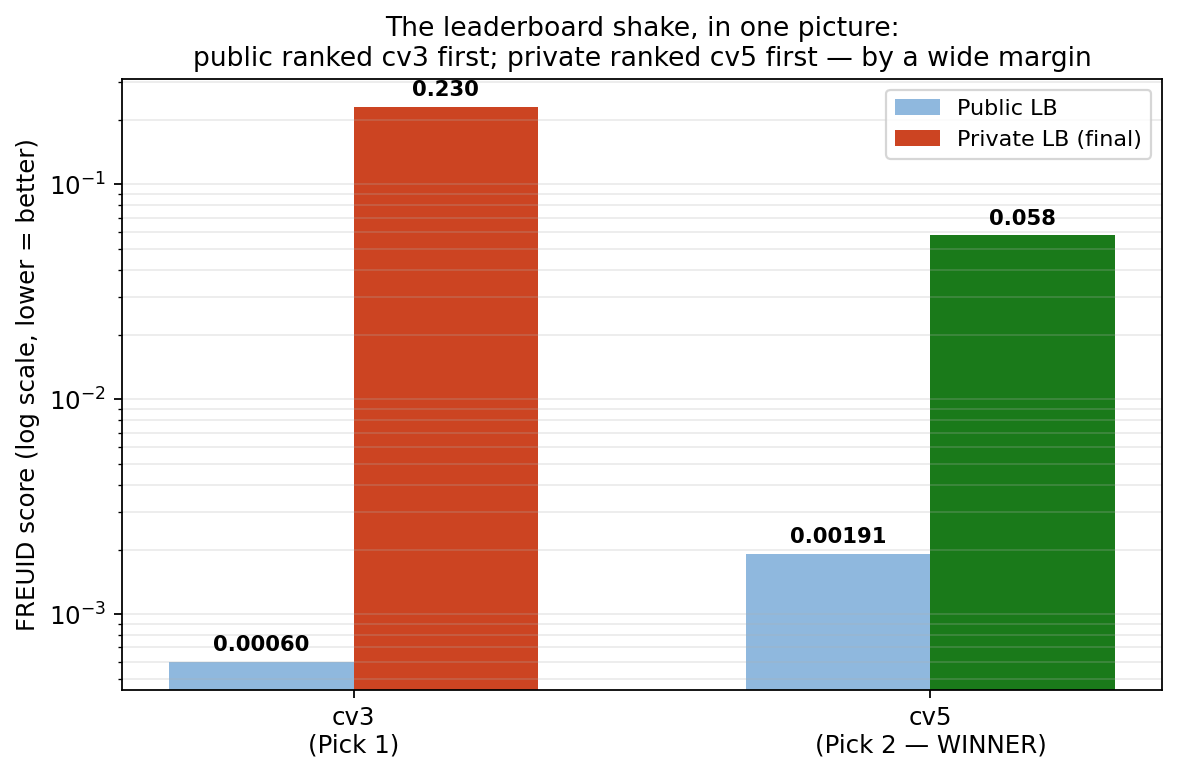
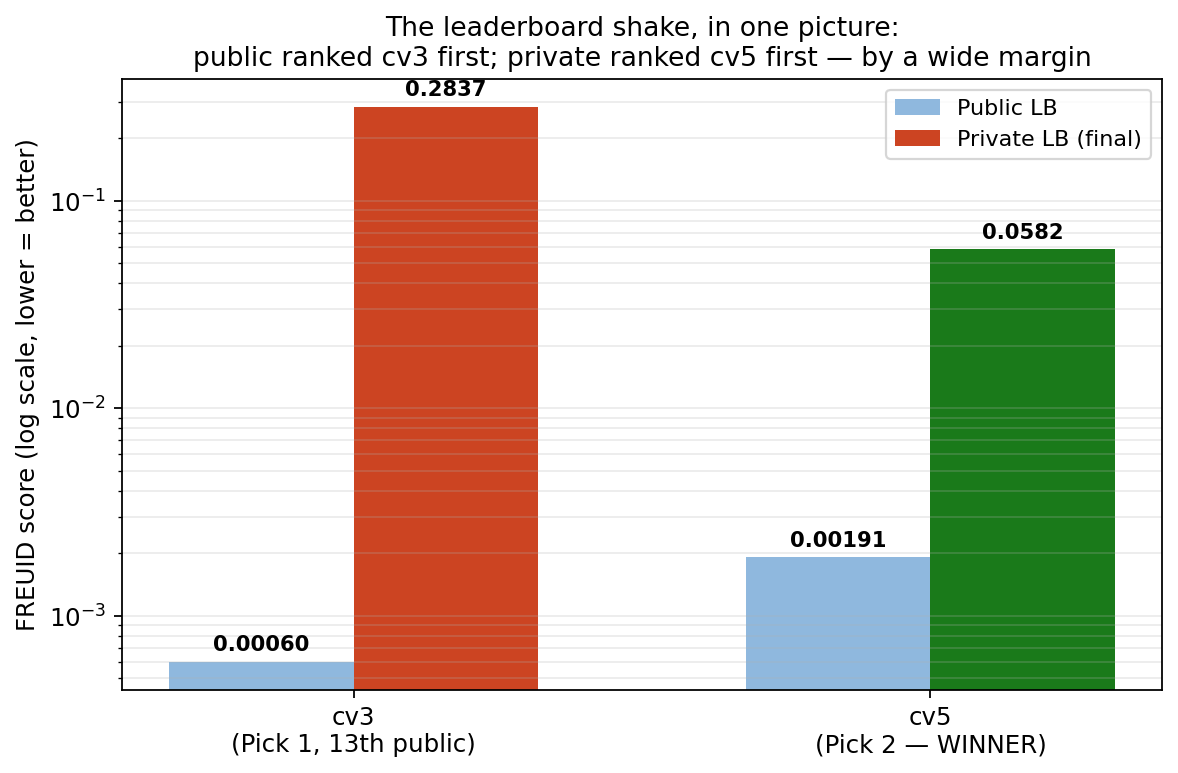
Correct private-LB scores to precise official values (cv3: 0.2837, cv5: 0.0582) and add cv3's public-leaderboard rank (13th)
Previous rounded figures (0.230 / 0.058) replaced everywhere: README,
technical report (text, table, leaderboard chart), and REPLY_DRAFT.txt.

diff --git a/report/freuid_technical_report.tex b/report/freuid_technical_report.tex
@@ -48,9 +48,9 @@
 \maketitle
 
 \begin{tcolorbox}[colback=green!6,colframe=green!45!black,title=\textbf{Final result: 1st place}]
-\textbf{Winning submission (Pick 2, \texttt{cv5\_ep2}): private leaderboard score \textbf{0.058}.}
+\textbf{Winning submission (Pick 2, \texttt{cv5\_ep2}): private leaderboard score \textbf{0.0582}.}
 Our other selected submission (Pick 1, \texttt{cv3}) scored 0.00060 on the public
-leaderboard --- the best of any of our models --- but \textbf{0.230} on the private
+leaderboard --- the best of any of our models --- but \textbf{0.2837} on the private
 leaderboard, a $\sim$380$\times$ reversal. This report documents the two-pick,
 external-validation-first strategy that produced the winning model, why the
 public-leaderboard champion did not survive private evaluation, and the
@@ -79,8 +79,8 @@ erase-and-retype) built on manually annotated per-type face and text-field
 Section~\ref{sec:annotation-clarification}). The two picks use
 \emph{identical} inference-time options and differ only in training data.
 \textbf{Pick 1} (\texttt{cv3}) trains on FREUID only and maximizes in-domain
-performance (public leaderboard 0.00060, the best of any model we built) but
-collapsed to 0.230 on the private set. \textbf{Pick 2} (\texttt{cv5}, our
+performance (public leaderboard 0.00060, 13th place, the best of any model we
+built) but collapsed to 0.2837 on the private set. \textbf{Pick 2} (\texttt{cv5}, our
 winning submission) trains on 100\% of FREUID plus 80{,}000 images from the
 externally licensed IDNet dataset (CC0), trading public score (0.00191) for a
 measured order-of-magnitude improvement in cross-document-type robustness
@@ -401,11 +401,11 @@ by hash comparison).
     \toprule
     Model / configuration & Public $\downarrow$ & External $\downarrow$ & Private $\downarrow$ & Notes \\
     \midrule
-    Pick 2: \texttt{cv5} ep2 + re-agg + TTA4  & 0.00191 & \textbf{0.0116}$^{*}$ & \textbf{0.058} & \textbf{Winner (1st)} \\
+    Pick 2: \texttt{cv5} ep2 + re-agg + TTA4  & 0.00191 & \textbf{0.0116}$^{*}$ & \textbf{0.0582} & \textbf{Winner (1st)} \\
     \quad \texttt{cv5} ep2 raw                & 0.0035  & 0.0154 & --- & \\
     \quad \texttt{cv5} ep2 + re-agg only       & 0.00263 & 0.0137$^{\dagger}$ & --- & \\
     \quad \texttt{cv5} ep2 + TTA4 only         & 0.00369 & 0.0116 & --- & \\
-    Pick 1: \texttt{cv3} + re-agg + TTA4       & \textbf{0.00060} & --- & 0.230 & Selected, not winner \\
+    Pick 1: \texttt{cv3} + re-agg + TTA4       & \textbf{0.00060}$^{\S}$ & --- & 0.2837 & Selected, not winner \\
     \quad \texttt{cv3} + re-agg only           & 0.00086 & ---    & --- & \\
     \quad \texttt{cv3} raw                     & 0.00096 & 0.9727 & --- & chance-level ext. \\
     FREUID-only, 100\% data (\texttt{cv6}, ep3) & 0.00178 & 0.9424 & --- & not selected \\
@@ -417,7 +417,8 @@ by hash comparison).
   \vspace{2pt}
   {\footnotesize $^{*}$full-pool confirmation of the externally selected config;
   $^{\dagger}$12k-subsample estimate; $^{\ddagger}$4{,}000-image sample of the
-  same two countries, fully blind for this model (never trained on them).}
+  same two countries, fully blind for this model (never trained on them);
+  $^{\S}$13th place on the public leaderboard.}
 \end{table}
 
 \subsection{Why Pick 1 collapsed and Pick 2 won}

diff --git a/src/make_report_figures.py b/src/make_report_figures.py
@@ -137,9 +137,9 @@ print("wrote architecture.png")
 # 4. Public vs private leaderboard result bar chart
 # ---------------------------------------------------------------------------
 fig, ax = plt.subplots(figsize=(7.5, 5))
-labels = ["cv3\n(Pick 1)", "cv5\n(Pick 2 — WINNER)"]
+labels = ["cv3\n(Pick 1, 13th public)", "cv5\n(Pick 2 — WINNER)"]
 public = [0.00060, 0.00191]
-private = [0.23, 0.058]
+private = [0.2837, 0.0582]
 x = np.arange(2)
 width = 0.32
 b1 = ax.bar(x - width/2, public, width, label="Public LB", color="#8fb8de")
@@ -152,7 +152,7 @@ ax.set_title("The leaderboard shake, in one picture:\npublic ranked cv3 first; p
              fontsize=12)
 for bars, vals in [(b1, public), (b2, private)]:
     for bar, v in zip(bars, vals):
-        ax.annotate(f"{v:.5f}" if v < 0.01 else f"{v:.3f}", (bar.get_x() + bar.get_width()/2, v),
+        ax.annotate(f"{v:.5f}" if v < 0.01 else f"{v:.4f}", (bar.get_x() + bar.get_width()/2, v),
                     textcoords="offset points", xytext=(0, 5), ha="center", fontsize=9.5, fontweight="bold")
 ax.legend(fontsize=10)
 ax.grid(axis="y", alpha=0.25, which="both")

diff --git a/README.md b/README.md
@@ -2,7 +2,7 @@
 
 **Team:** nadhir hasan (Nadhir Hasan) · **Kaggle username:** nadhirhasan
 
-**Final result: 1st place**, private leaderboard score **0.058** (winning submission: `cv5_ep2`,
+**Final result: 1st place**, private leaderboard score **0.0582** (winning submission: `cv5_ep2`,
 Pick 2). This repository is the full reproducibility package: training code, inference code,
 frozen model weights, and a runnable Docker container the organizers can execute in a
 network-isolated sandbox to reproduce both of our two selected final submissions.
@@ -52,7 +52,7 @@ data: a **re-aggregation of the per-patch MIL scores** and **4-scale test-time a
 | **Resolution** | 448×728, letterboxed |
 | **Inference-time enhancements** | patch re-aggregation (top-5% + attention, w=0.25/0.75) + 4-scale logit-avg TTA (0.85/0.9/1.0/1.1) |
 | **Public leaderboard** | 0.00191 |
-| **Private leaderboard (final, official)** | **0.058 — 1st place** |
+| **Private leaderboard (final, official)** | **0.0582 — 1st place** |
 
 Everything needed to retrain, re-run, and independently verify this exact model is in this
 repository — see [Training](#training) and [Docker / reproduction](#docker--reproduction).
@@ -65,8 +65,9 @@ stated up front contains *"previously unseen document types and fraud patterns..
 withheld"*) diverged from the public distribution, the two picks would diverge with it —
 giving us a hedge instead of a single bet.
 
-- **Pick 1 (`cv3`):** trained on FREUID data only. Best public score by far (0.00060), and
-  strong performance on a genuinely held-out, corruption-augmented slice of FREUID itself.
+- **Pick 1 (`cv3`):** trained on FREUID data only. Best public score by far (0.00060, 13th
+  place on the public leaderboard), and strong performance on a genuinely held-out,
+  corruption-augmented slice of FREUID itself.
   But on 35,874 real-world IDNet documents it never trained on, it scored at **chance level**
   (AuDET ≈ 0.50) — it had learned something highly specific to FREUID's own generation
   pipeline, with no evidence it would transfer to a different document distribution.
@@ -119,10 +120,10 @@ the actual Kaggle submissions (see [Docker / reproduction](#docker--reproduction
 
 ## Both selected final submissions
 
-| Pick | Model | Training data | Public LB | Private LB | Kaggle CSV (sha256) |
+| Pick | Model | Training data | Public LB (rank) | Private LB | Kaggle CSV (sha256) |
 |---|---|---|---|---|---|
[4 lines of base64/hex data omitted]
 
 Both picks use **identical inference-time options** — patch re-aggregation (top-5% of patch
 logits, branch weight 0.25) plus 4-scale logit-averaged TTA (0.85/0.9/1.0/1.1) — and come from